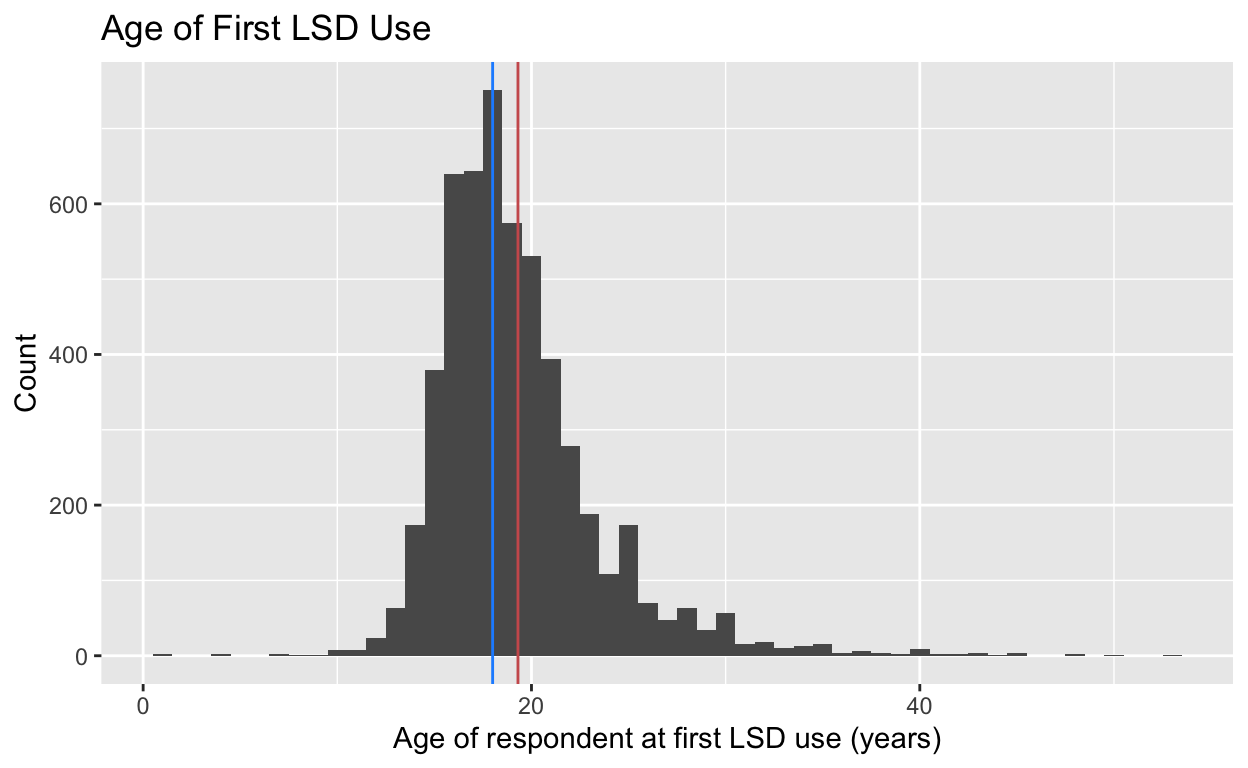
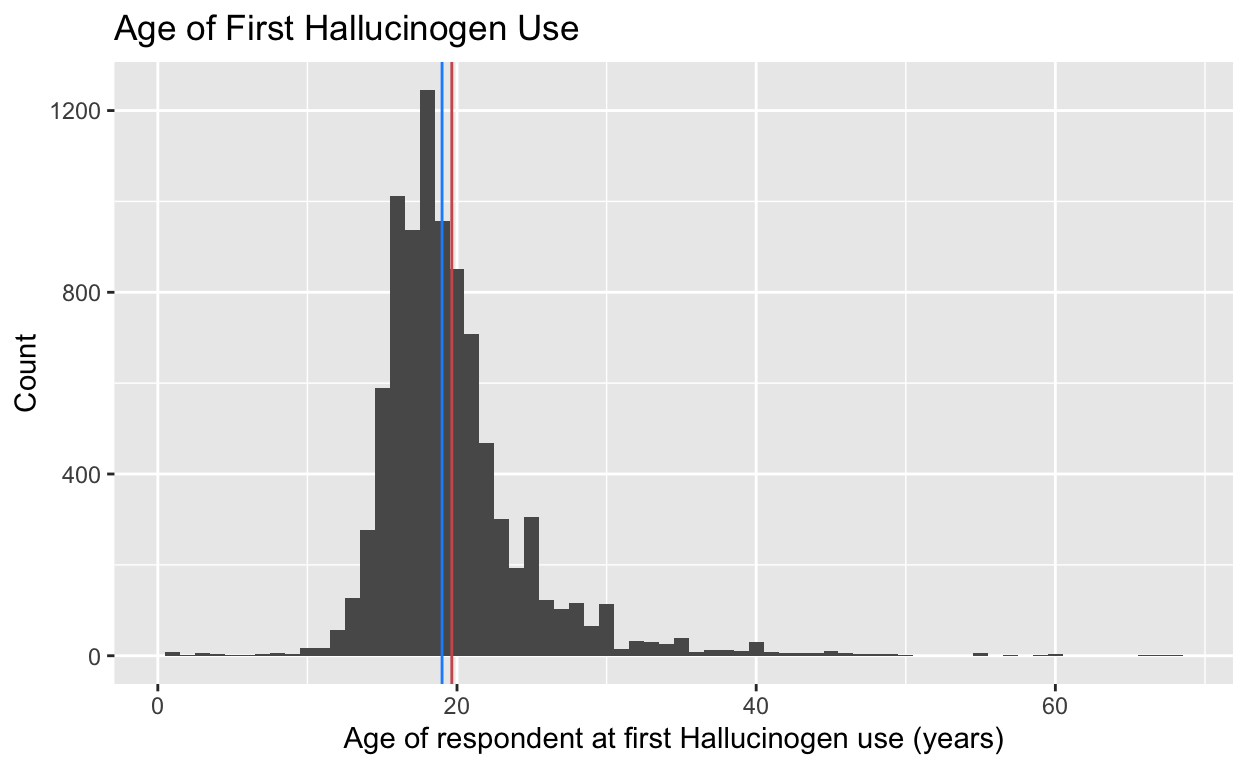
knit

diff --git a/index.html b/index.html
@@ -1571,31 +1571,17 @@ Expected Observations:</p>
 <pre class="sourceCode r"><code class="sourceCode r"><span><span class='co'># PUF2021_100622</span></span>
 <span><span class='va'>lsd_use</span> <span class='op'>&lt;-</span> <span class='va'>PUF2021_100622</span> <span class='op'>|&gt;</span></span>
 <span>  <span class='fu'><a href='https://dplyr.tidyverse.org/reference/mutate.html'>mutate</a></span><span class='op'>(</span></span>
-<span>    income_level <span class='op'>=</span> <span class='fu'><a href='https://dplyr.tidyverse.org/reference/case_when.html'>case_when</a></span><span class='op'>(</span></span>
-<span>      <span class='va'>income</span> <span class='op'>==</span> <span class='fl'>1</span> <span class='op'>~</span> <span class='st'>"Less than $20,000"</span>,</span>
-<span>      <span class='va'>income</span> <span class='op'>==</span> <span class='fl'>2</span> <span class='op'>~</span> <span class='st'>"$20,000 - $49,999"</span>,</span>
-<span>      <span class='va'>income</span> <span class='op'>==</span> <span class='fl'>3</span> <span class='op'>~</span> <span class='st'>"$50,000 - $74,999"</span>,</span>
-<span>      <span class='va'>income</span> <span class='op'>==</span> <span class='fl'>4</span> <span class='op'>~</span> <span class='st'>"$75,000 or More"</span></span>
-<span>    <span class='op'>)</span>,</span>
 <span>    metro_level <span class='op'>=</span> <span class='fu'><a href='https://dplyr.tidyverse.org/reference/case_when.html'>case_when</a></span><span class='op'>(</span></span>
 <span>      <span class='va'>COUTYP4</span> <span class='op'>==</span> <span class='fl'>1</span> <span class='op'>~</span> <span class='st'>"Large Metro"</span>,</span>
 <span>      <span class='va'>COUTYP4</span> <span class='op'>==</span> <span class='fl'>2</span> <span class='op'>~</span> <span class='st'>"Small Metro"</span>,</span>
 <span>      <span class='va'>COUTYP4</span> <span class='op'>==</span> <span class='fl'>3</span> <span class='op'>~</span> <span class='st'>"Non Metro"</span></span>
 <span>    <span class='op'>)</span></span>
 <span>  <span class='op'>)</span> <span class='op'>|&gt;</span></span>
-<span>  <span class='co'># slice_sample(</span></span>
-<span>  <span class='co'>#   n = 10000</span></span>
-<span>  <span class='co'># ) |&gt;</span></span>
 <span>  <span class='fu'><a href='https://dplyr.tidyverse.org/reference/select.html'>select</a></span><span class='op'>(</span></span>
-<span>    <span class='va'>snfamjev</span>,</span>
-<span>    <span class='co'># income level</span></span>
-<span>    <span class='va'>income_level</span>,</span>
 <span>    <span class='co'># metro level</span></span>
 <span>    <span class='va'>metro_level</span>,</span>
 <span>    <span class='co'># respondent age</span></span>
 <span>    <span class='va'>AGE3</span>,</span>
-<span>    <span class='co'># imputation revised gender</span></span>
-<span>    <span class='va'>irsex</span>,</span>
 <span>    <span class='co'># population density</span></span>
 <span>    <span class='va'>PDEN10</span>,</span>
 <span>    <span class='co'># metro/non-metro</span></span>
@@ -1604,21 +1590,21 @@ Expected Observations:</p>
 <span>    <span class='va'>lsdage</span>,</span>
 <span>    <span class='co'># ever used lsd (1)</span></span>
 <span>    <span class='va'>lsdflag</span>,</span>
-<span>    <span class='co'># RC-POVERTY LEVEL (% OF US CENSUS POVERTY THRESHOLD)</span></span>
-<span>    <span class='va'>POVERTY3</span>,</span>
-<span>    <span class='co'># MY RELIGIOUS BELIEFS INFLUENCE MY DECISIONS (1 or 0)</span></span>
-<span>    <span class='va'>snrldcsn</span>,</span>
 <span>    <span class='co'># lsd age last use</span></span>
 <span>    <span class='va'>lsdaglst</span>,</span>
 <span>    <span class='co'># year of last lsd use</span></span>
 <span>    <span class='va'>lsdylu</span>,</span>
-<span>    <span class='co'># total family income</span></span>
-<span>    <span class='va'>income</span></span>
-<span>  <span class='op'>)</span></span>
-<span>  <span class='co'># ) |&gt;</span></span>
-<span>  <span class='co'># filter(</span></span>
-<span>  <span class='co'>#   lsdflag == 1</span></span>
-<span>  <span class='co'># )</span></span></code></pre>
+<span>    <span class='co'># TIME SINCE LAST USED LSD</span></span>
+<span>    <span class='va'>lsdrec</span>,</span>
+<span>    <span class='co'># Ever used psilocybin</span></span>
+<span>    <span class='va'>psilcyever</span>,</span>
+<span>    <span class='co'># ever used psilocybin</span></span>
+<span>    <span class='va'>psilcy</span>,</span>
+<span>    <span class='co'># ever used hallucinogens (DMTAMTFXY, ECSTMOLLY, HALLUCOTH, KETMINESK, LSD, MESC, PCP, PEYOTE, PSILCY, SALVIADIV)</span></span>
+<span>    <span class='va'>hallucevr</span>,</span>
+<span>    <span class='co'># age of first hallucage</span></span>
+<span>    <span class='va'>hallucage</span></span>
+<span>  <span class='op'>)</span></span></code></pre>
 </div>
 </div>
 <div class="layout-chunk" data-layout="l-body">
@@ -1626,61 +1612,92 @@ Expected Observations:</p>
 <pre class="sourceCode r"><code class="sourceCode r"><span><span class='kw'><a href='https://rdrr.io/r/base/library.html'>library</a></span><span class='op'>(</span><span class='va'><a href='https://tidyverse.tidyverse.org'>tidyverse</a></span><span class='op'>)</span></span></code></pre>
 </div>
 </div>
+<h4 id="age-of-first-hallucinogen-use">Age of First Hallucinogen Use</h4>
+This analysis reveals that the median age of first hallucinogen use among respondents is approximately 19 years, representing the midpoint of the distribution. Approximately 25% of respondents start using hallucinogens before or at age 17 (Q1), while another quarter initiate use at or after age 21 (Q3), indicating quartile boundaries. The mean age of initiation, around 19.65 years, closely aligns with the median, implying a relatively symmetrical distribution. The histogram closely resembles a normal distribution with a slight right skew, indicating that most respondents commence using hallucinogens in their late teens or early twenties, with a smaller fraction initiating use at older ages.
 <div class="layout-chunk" data-layout="l-body">
 <div class="sourceCode">
-<pre class="sourceCode r"><code class="sourceCode r"><span><span class='va'>lsd_use_plot</span> <span class='op'>&lt;-</span> <span class='va'>lsd_use</span> <span class='op'>|&gt;</span></span>
-<span>  <span class='fu'><a href='https://dplyr.tidyverse.org/reference/filter.html'>filter</a></span><span class='op'>(</span></span>
-<span>    <span class='va'>lsdage</span> <span class='op'>&lt;</span> <span class='fl'>200</span></span>
-<span>  <span class='op'>)</span> <span class='op'>|&gt;</span></span>
-<span>  <span class='fu'><a href='https://ggplot2.tidyverse.org/reference/ggplot.html'>ggplot</a></span><span class='op'>(</span></span>
-<span>    mapping <span class='op'>=</span> <span class='fu'><a href='https://ggplot2.tidyverse.org/reference/aes.html'>aes</a></span><span class='op'>(</span></span>
-<span>      x <span class='op'>=</span> <span class='va'>lsdage</span></span>
-<span>    <span class='op'>)</span></span>
-<span>  <span class='op'>)</span> <span class='op'>+</span></span>
-<span>  <span class='fu'><a href='https://ggplot2.tidyverse.org/reference/geom_histogram.html'>geom_histogram</a></span><span class='op'>(</span>binwidth <span class='op'>=</span> <span class='fl'>1</span><span class='op'>)</span> <span class='op'>+</span></span>
-<span>  <span class='fu'><a href='https://ggplot2.tidyverse.org/reference/geom_abline.html'>geom_vline</a></span><span class='op'>(</span><span class='fu'><a href='https://ggplot2.tidyverse.org/reference/aes.html'>aes</a></span><span class='op'>(</span>xintercept <span class='op'>=</span> <span class='fu'><a href='https://rdrr.io/r/base/mean.html'>mean</a></span><span class='op'>(</span><span class='va'>lsdage</span><span class='op'>)</span><span class='op'>)</span>, color <span class='op'>=</span> <span class='st'>"indianred"</span><span class='op'>)</span> <span class='op'>+</span></span>
-<span>  <span class='fu'><a href='https://ggplot2.tidyverse.org/reference/geom_abline.html'>geom_vline</a></span><span class='op'>(</span><span class='fu'><a href='https://ggplot2.tidyverse.org/reference/aes.html'>aes</a></span><span class='op'>(</span>xintercept <span class='op'>=</span> <span class='fu'><a href='https://rdrr.io/r/stats/median.html'>median</a></span><span class='op'>(</span><span class='va'>lsdage</span><span class='op'>)</span><span class='op'>)</span>, color <span class='op'>=</span> <span class='st'>"dodgerblue"</span><span class='op'>)</span> <span class='op'>+</span></span>
-<span>  <span class='fu'><a href='https://ggplot2.tidyverse.org/reference/labs.html'>labs</a></span><span class='op'>(</span></span>
-<span>    title <span class='op'>=</span> <span class='st'>"Age of First LSD Use"</span>,</span>
-<span>    x <span class='op'>=</span> <span class='st'>"Age of respondent at first LSD use (years)"</span>,</span>
-<span>    y <span class='op'>=</span> <span class='st'>"Count"</span></span>
+<pre class="sourceCode r"><code class="sourceCode r"><span><span class='va'>filtered_lsd_use</span> <span class='op'>&lt;-</span> <span class='va'>lsd_use</span> <span class='op'>|&gt;</span></span>
+<span>  <span class='fu'><a href='https://dplyr.tidyverse.org/reference/filter.html'>filter</a></span><span class='op'>(</span><span class='va'>hallucage</span> <span class='op'>&lt;</span> <span class='fl'>69</span><span class='op'>)</span></span>
+<span></span>
+<span><span class='va'>summary_stats</span> <span class='op'>&lt;-</span> <span class='va'>filtered_lsd_use</span> <span class='op'>|&gt;</span></span>
+<span>  <span class='fu'><a href='https://dplyr.tidyverse.org/reference/summarise.html'>summarise</a></span><span class='op'>(</span></span>
+<span>    Median <span class='op'>=</span> <span class='fu'><a href='https://rdrr.io/r/stats/median.html'>median</a></span><span class='op'>(</span><span class='va'>hallucage</span><span class='op'>)</span>,</span>
+<span>    Q1 <span class='op'>=</span> <span class='fu'><a href='https://rdrr.io/r/stats/quantile.html'>quantile</a></span><span class='op'>(</span><span class='va'>hallucage</span>, <span class='fl'>0.25</span><span class='op'>)</span>,</span>
+<span>    Q3 <span class='op'>=</span> <span class='fu'><a href='https://rdrr.io/r/stats/quantile.html'>quantile</a></span><span class='op'>(</span><span class='va'>hallucage</span>, <span class='fl'>0.75</span><span class='op'>)</span>,</span>
+<span>    Mean <span class='op'>=</span> <span class='fu'><a href='https://rdrr.io/r/base/mean.html'>mean</a></span><span class='op'>(</span><span class='va'>hallucage</span><span class='op'>)</span>,</span>
+<span>    SD <span class='op'>=</span> <span class='fu'><a href='https://rdrr.io/r/stats/sd.html'>sd</a></span><span class='op'>(</span><span class='va'>hallucage</span><span class='op'>)</span>,</span>
+<span>    Min <span class='op'>=</span> <span class='fu'><a href='https://rdrr.io/r/base/Extremes.html'>min</a></span><span class='op'>(</span><span class='va'>hallucage</span><span class='op'>)</span>,</span>
+<span>    Max <span class='op'>=</span> <span class='fu'><a href='https://rdrr.io/r/base/Extremes.html'>max</a></span><span class='op'>(</span><span class='va'>hallucage</span><span class='op'>)</span></span>
 <span>  <span class='op'>)</span></span>
+<span></span>
+<span><span class='va'>summary_stats</span></span></code></pre>
+</div>
+<pre><code>  Median Q1 Q3     Mean       SD Min Max
+1     19 17 21 19.65161 5.060786   1  68</code></pre>
+<div class="sourceCode">
+<pre class="sourceCode r"><code class="sourceCode r"><span><span class='va'>lsd_use_plot</span> <span class='op'>&lt;-</span> <span class='va'>filtered_lsd_use</span> <span class='op'>|&gt;</span></span>
+<span>  <span class='fu'><a href='https://ggplot2.tidyverse.org/reference/ggplot.html'>ggplot</a></span><span class='op'>(</span>mapping <span class='op'>=</span> <span class='fu'><a href='https://ggplot2.tidyverse.org/reference/aes.html'>aes</a></span><span class='op'>(</span>x <span class='op'>=</span> <span class='va'>hallucage</span><span class='op'>)</span><span class='op'>)</span> <span class='op'>+</span></span>
+<span>  <span class='fu'><a href='https://ggplot2.tidyverse.org/reference/geom_histogram.html'>geom_histogram</a></span><span class='op'>(</span>binwidth <span class='op'>=</span> <span class='fl'>1</span><span class='op'>)</span> <span class='op'>+</span></span>
+<span>  <span class='fu'><a href='https://ggplot2.tidyverse.org/reference/labs.html'>labs</a></span><span class='op'>(</span></span>
+<span>    title <span class='op'>=</span> <span class='st'>"Age of First Hallucinogen Use"</span>,</span>
+<span>    x <span class='op'>=</span> <span class='st'>"Age of respondent at first Hallucinogen use (years)"</span>,</span>
+<span>    y <span class='op'>=</span> <span class='st'>"Count"</span></span>
+<span>  <span class='op'>)</span> <span class='op'>+</span></span>
+<span>  <span class='fu'><a href='https://ggplot2.tidyverse.org/reference/geom_abline.html'>geom_vline</a></span><span class='op'>(</span><span class='fu'><a href='https://ggplot2.tidyverse.org/reference/aes.html'>aes</a></span><span class='op'>(</span>xintercept <span class='op'>=</span> <span class='fu'><a href='https://rdrr.io/r/base/mean.html'>mean</a></span><span class='op'>(</span><span class='va'>hallucage</span><span class='op'>)</span><span class='op'>)</span>, color <span class='op'>=</span> <span class='st'>"indianred"</span><span class='op'>)</span> <span class='op'>+</span></span>
+<span>  <span class='fu'><a href='https://ggplot2.tidyverse.org/reference/geom_abline.html'>geom_vline</a></span><span class='op'>(</span><span class='fu'><a href='https://ggplot2.tidyverse.org/reference/aes.html'>aes</a></span><span class='op'>(</span>xintercept <span class='op'>=</span> <span class='fu'><a href='https://rdrr.io/r/stats/median.html'>median</a></span><span class='op'>(</span><span class='va'>hallucage</span><span class='op'>)</span><span class='op'>)</span>, color <span class='op'>=</span> <span class='st'>"dodgerblue"</span><span class='op'>)</span></span>
 <span></span>
 <span><span class='va'>lsd_use_plot</span></span></code></pre>
 </div>
 <p><img src="index_files/figure-html5/unnamed-chunk-4-1.png" width="624" /></p>
 </div>
+<h4 id="age-of-first-hallucinogen-use-by-metrolevel">Age of First Hallucinogen Use by Metrolevel</h4>
+The boxplot analysis reveals variations in the age of first hallucinogen use across different metro level areas. In Large Metro areas, the median age of initiation is around 19 years, while in Non Metro and Small Metro areas, it’s about 18 years. The first quartile age (25th percentile) indicates that a quarter of individuals in Non Metro areas start using hallucinogens at a younger age, at approximately 16 years, compared to the other groups. The third quartile age (75th percentile) shows that the majority in all three areas initiate use by their early twenties, with Large Metro areas slightly later at around 22 years. These findings highlight regional differences in the timing of first hallucinogen use, with individuals in Large Metro areas tending to initiate use slightly later on average.
 <div class="layout-chunk" data-layout="l-body">
 <div class="sourceCode">
-<pre class="sourceCode r"><code class="sourceCode r"><span><span class='va'>fit_1</span> <span class='op'>&lt;-</span> <span class='fu'><a href='https://rdrr.io/r/stats/lm.html'>lm</a></span><span class='op'>(</span><span class='va'>snfamjev</span> <span class='op'>~</span> <span class='va'>lsdflag</span> , data <span class='op'>=</span> <span class='va'>lsd_use</span><span class='op'>)</span></span>
+<pre class="sourceCode r"><code class="sourceCode r"><span><span class='va'>lsd_use_box_plot</span> <span class='op'>&lt;-</span> <span class='va'>filtered_lsd_use</span> <span class='op'>|&gt;</span></span>
+<span>  <span class='fu'><a href='https://dplyr.tidyverse.org/reference/filter.html'>filter</a></span><span class='op'>(</span></span>
+<span>    <span class='va'>hallucage</span> <span class='op'>&lt;</span> <span class='fl'>69</span></span>
+<span>  <span class='op'>)</span> <span class='op'>|&gt;</span></span>
+<span>  <span class='fu'><a href='https://ggplot2.tidyverse.org/reference/ggplot.html'>ggplot</a></span><span class='op'>(</span></span>
+<span>    mapping <span class='op'>=</span> <span class='fu'><a href='https://ggplot2.tidyverse.org/reference/aes.html'>aes</a></span><span class='op'>(</span></span>
+<span>      x <span class='op'>=</span> <span class='va'>hallucage</span>,</span>
+<span>      fill <span class='op'>=</span> <span class='va'>metro_level</span></span>
+<span>    <span class='op'>)</span></span>
+<span>  <span class='op'>)</span> <span class='op'>+</span></span>
+<span><span class='fu'><a href='https://ggplot2.tidyverse.org/reference/geom_boxplot.html'>geom_boxplot</a></span><span class='op'>(</span><span class='op'>)</span> <span class='op'>+</span></span>
+<span>  <span class='fu'><a href='https://ggplot2.tidyverse.org/reference/labs.html'>labs</a></span><span class='op'>(</span></span>
+<span>    title <span class='op'>=</span> <span class='st'>"Age of First Hallucinogen Use by Metro Level"</span>,</span>
+<span>    x <span class='op'>=</span> <span class='st'>"Metro Level"</span>,</span>
+<span>    y <span class='op'>=</span> <span class='st'>"Age at first Hallucinogen use (years)"</span></span>
+<span>  <span class='op'>)</span></span>
 <span></span>
-<span><span class='va'>fit_1</span> <span class='op'>|&gt;</span></span>
-<span>  <span class='fu'>broom</span><span class='fu'>::</span><span class='fu'><a href='https://generics.r-lib.org/reference/tidy.html'>tidy</a></span><span class='op'>(</span><span class='op'>)</span> <span class='op'>|&gt;</span></span>
-<span>  <span class='fu'><a href='https://dplyr.tidyverse.org/reference/select.html'>select</a></span><span class='op'>(</span><span class='va'>term</span>, <span class='va'>estimate</span><span class='op'>)</span> <span class='op'>|&gt;</span>  </span>
-<span>  <span class='fu'>knitr</span><span class='fu'>::</span><span class='fu'><a href='https://rdrr.io/pkg/knitr/man/kable.html'>kable</a></span><span class='op'>(</span>digits <span class='op'>=</span> <span class='fl'>2</span><span class='op'>)</span></span></code></pre>
+<span><span class='va'>lsd_use_box_plot</span></span></code></pre>
 </div>
-<table>
-<thead>
-<tr class="header">
-<th style="text-align: left;">term</th>
-<th style="text-align: right;">estimate</th>
-</tr>
-</thead>
-<tbody>
-<tr class="odd">
-<td style="text-align: left;">(Intercept)</td>
-<td style="text-align: right;">23.79</td>
-</tr>
-<tr class="even">
-<td style="text-align: left;">lsdflag</td>
-<td style="text-align: right;">-15.79</td>
-</tr>
-</tbody>
-</table>
+<img src="index_files/figure-html5/unnamed-chunk-5-1.png" width="624" />
+<div class="sourceCode">
+<pre class="sourceCode r"><code class="sourceCode r"><span><span class='va'>summary_stats</span> <span class='op'>&lt;-</span> <span class='va'>lsd_use</span> <span class='op'>|&gt;</span></span>
+<span>  <span class='fu'><a href='https://dplyr.tidyverse.org/reference/filter.html'>filter</a></span><span class='op'>(</span><span class='va'>hallucage</span> <span class='op'>&lt;</span> <span class='fl'>69</span><span class='op'>)</span> <span class='op'>|&gt;</span></span>
+<span>  <span class='fu'><a href='https://dplyr.tidyverse.org/reference/group_by.html'>group_by</a></span><span class='op'>(</span><span class='va'>metro_level</span><span class='op'>)</span> <span class='op'>|&gt;</span></span>
+<span>  <span class='fu'><a href='https://dplyr.tidyverse.org/reference/summarise.html'>summarize</a></span><span class='op'>(</span></span>
+<span>    Median <span class='op'>=</span> <span class='fu'><a href='https://rdrr.io/r/stats/median.html'>median</a></span><span class='op'>(</span><span class='va'>hallucage</span><span class='op'>)</span>,</span>
+<span>    Q1 <span class='op'>=</span> <span class='fu'><a href='https://rdrr.io/r/stats/quantile.html'>quantile</a></span><span class='op'>(</span><span class='va'>hallucage</span>, <span class='fl'>0.25</span><span class='op'>)</span>,</span>
+<span>    Q3 <span class='op'>=</span> <span class='fu'><a href='https://rdrr.io/r/stats/quantile.html'>quantile</a></span><span class='op'>(</span><span class='va'>hallucage</span>, <span class='fl'>0.75</span><span class='op'>)</span></span>
+<span>  <span class='op'>)</span></span>
+<span></span>
+<span><span class='va'>summary_stats</span></span></code></pre>
 </div>
+<pre><code># A tibble: 3 × 4
+  metro_level Median    Q1    Q3
+  &lt;chr&gt;        &lt;dbl&gt; &lt;dbl&gt; &lt;dbl&gt;
+1 Large Metro     19    17    22
+2 Non Metro       18    16    21
+3 Small Metro     18    17    21</code></pre>
+</div>
+<h4 id="hallucinogen-lifetime-use-and-metro-level">Hallucinogen lifetime use and metro level</h4>
+Whether a respondent has ever taken psychedelics (hallucevr) does not appear to have a significant impact on the type of county (COUTYP4) in which they reside. The coefficient for hallucevr is almost zero, indicating that there is virtually no association between these two variables in the model.
 <div class="layout-chunk" data-layout="l-body">
 <div class="sourceCode">
-<pre class="sourceCode r"><code class="sourceCode r"><span><span class='va'>fit_2</span> <span class='op'>&lt;-</span> <span class='fu'><a href='https://rdrr.io/r/stats/lm.html'>lm</a></span><span class='op'>(</span><span class='va'>snrldcsn</span> <span class='op'>~</span> <span class='va'>lsdflag</span>, data <span class='op'>=</span> <span class='va'>lsd_use</span><span class='op'>)</span></span>
+<pre class="sourceCode r"><code class="sourceCode r"><span><span class='va'>fit_2</span> <span class='op'>&lt;-</span> <span class='fu'><a href='https://rdrr.io/r/stats/lm.html'>lm</a></span><span class='op'>(</span><span class='va'>COUTYP4</span> <span class='op'>~</span> <span class='va'>hallucevr</span>, data <span class='op'>=</span> <span class='va'>lsd_use</span><span class='op'>)</span></span>
 <span></span>
 <span><span class='va'>fit_2</span> <span class='op'>|&gt;</span></span>
 <span>  <span class='fu'>broom</span><span class='fu'>::</span><span class='fu'><a href='https://generics.r-lib.org/reference/tidy.html'>tidy</a></span><span class='op'>(</span><span class='op'>)</span> <span class='op'>|&gt;</span></span>
@@ -1697,100 +1714,35 @@ Expected Observations:</p>
 <tbody>
 <tr class="odd">
 <td style="text-align: left;">(Intercept)</td>
-<td style="text-align: right;">24.89</td>
+<td style="text-align: right;">1.73</td>
 </tr>
 <tr class="even">
-<td style="text-align: left;">lsdflag</td>
-<td style="text-align: right;">-16.06</td>
+<td style="text-align: left;">hallucevr</td>
+<td style="text-align: right;">0.00</td>
 </tr>
 </tbody>
 </table>
 </div>
 <div class="layout-chunk" data-layout="l-body">
 <div class="sourceCode">
-<pre class="sourceCode r"><code class="sourceCode r"><span><span class='va'>metro_lsd_plot</span> <span class='op'>&lt;-</span> <span class='va'>lsd_use</span> <span class='op'>|&gt;</span></span>
+<pre class="sourceCode r"><code class="sourceCode r"><span><span class='va'>metro_hall_plot</span> <span class='op'>&lt;-</span> <span class='va'>filtered_lsd_use</span> <span class='op'>|&gt;</span></span>
 <span>  <span class='fu'><a href='https://dplyr.tidyverse.org/reference/group_by.html'>group_by</a></span><span class='op'>(</span><span class='va'>metro_level</span><span class='op'>)</span> <span class='op'>|&gt;</span></span>
 <span>  <span class='fu'><a href='https://dplyr.tidyverse.org/reference/summarise.html'>summarize</a></span><span class='op'>(</span></span>
-<span>    avg_lsdflag <span class='op'>=</span> <span class='fu'><a href='https://rdrr.io/r/base/mean.html'>mean</a></span><span class='op'>(</span><span class='va'>lsdflag</span><span class='op'>)</span></span>
+<span>    avg_hallucage <span class='op'>=</span> <span class='fu'><a href='https://rdrr.io/r/base/mean.html'>mean</a></span><span class='op'>(</span><span class='va'>hallucage</span><span class='op'>)</span></span>
 <span>  <span class='op'>)</span> <span class='op'>|&gt;</span></span>
-<span>  <span class='fu'><a href='https://ggplot2.tidyverse.org/reference/ggplot.html'>ggplot</a></span><span class='op'>(</span>mapping <span class='op'>=</span> <span class='fu'><a href='https://ggplot2.tidyverse.org/reference/aes.html'>aes</a></span><span class='op'>(</span>x <span class='op'>=</span> <span class='fu'><a href='https://forcats.tidyverse.org/reference/fct_reorder.html'>fct_reorder</a></span><span class='op'>(</span><span class='va'>metro_level</span>, <span class='va'>avg_lsdflag</span><span class='op'>)</span>, y <span class='op'>=</span> <span class='va'>avg_lsdflag</span>, fill <span class='op'>=</span> <span class='va'>metro_level</span><span class='op'>)</span><span class='op'>)</span> <span class='op'>+</span></span>
+<span>  <span class='fu'><a href='https://ggplot2.tidyverse.org/reference/ggplot.html'>ggplot</a></span><span class='op'>(</span>mapping <span class='op'>=</span> <span class='fu'><a href='https://ggplot2.tidyverse.org/reference/aes.html'>aes</a></span><span class='op'>(</span>x <span class='op'>=</span> <span class='fu'><a href='https://forcats.tidyverse.org/reference/fct_reorder.html'>fct_reorder</a></span><span class='op'>(</span><span class='va'>metro_level</span>, <span class='va'>avg_hallucage</span><span class='op'>)</span>, y <span class='op'>=</span> <span class='va'>avg_hallucage</span>, fill <span class='op'>=</span> <span class='va'>metro_level</span><span class='op'>)</span><span class='op'>)</span> <span class='op'>+</span></span>
 <span>  <span class='fu'><a href='https://ggplot2.tidyverse.org/reference/geom_bar.html'>geom_col</a></span><span class='op'>(</span><span class='op'>)</span> <span class='op'>+</span></span>
 <span>  <span class='fu'><a href='https://ggplot2.tidyverse.org/reference/labs.html'>labs</a></span><span class='op'>(</span></span>
-<span>    title <span class='op'>=</span> <span class='st'>"Metro level and ever used LSD"</span>,</span>
-<span>    x <span class='op'>=</span> <span class='st'>"Metro level family income"</span>,</span>
-<span>    y <span class='op'>=</span> <span class='st'>"Avergae proportion of respondents who have ever used LSD (%)"</span></span>
+<span>    title <span class='op'>=</span> <span class='st'>"County metro/nonmetro status level and average age of first Hallucinogen use"</span>,</span>
+<span>    x <span class='op'>=</span> <span class='st'>"COUNTY METRO/NONMETRO STATUS (2013 3-LEVEL)"</span>,</span>
+<span>    y <span class='op'>=</span> <span class='st'>"Average Age of respondent at first Hallucinogen use (years)"</span></span>
 <span>  <span class='op'>)</span></span>
 <span></span>
-<span><span class='va'>metro_lsd_plot</span></span></code></pre>
+<span><span class='va'>metro_hall_plot</span></span></code></pre>
 </div>
 <p><img src="index_files/figure-html5/unnamed-chunk-7-1.png" width="624" /></p>
 </div>
-<div class="layout-chunk" data-layout="l-body">
-<div class="sourceCode">
-<pre class="sourceCode r"><code class="sourceCode r"><span><span class='va'>income_lsd_plot</span> <span class='op'>&lt;-</span> <span class='va'>lsd_use</span> <span class='op'>|&gt;</span></span>
-<span>  <span class='fu'><a href='https://dplyr.tidyverse.org/reference/group_by.html'>group_by</a></span><span class='op'>(</span><span class='va'>income_level</span><span class='op'>)</span> <span class='op'>|&gt;</span></span>
-<span>  <span class='fu'><a href='https://dplyr.tidyverse.org/reference/summarise.html'>summarize</a></span><span class='op'>(</span></span>
-<span>    avg_lsdage <span class='op'>=</span> <span class='fu'><a href='https://rdrr.io/r/base/mean.html'>mean</a></span><span class='op'>(</span><span class='va'>lsdage</span><span class='op'>)</span>,</span>
-<span>    avg_lsdflag <span class='op'>=</span> <span class='fu'><a href='https://rdrr.io/r/base/mean.html'>mean</a></span><span class='op'>(</span><span class='va'>lsdflag</span><span class='op'>)</span></span>
-<span>  <span class='op'>)</span> <span class='op'>|&gt;</span></span>
-<span>  <span class='fu'><a href='https://ggplot2.tidyverse.org/reference/ggplot.html'>ggplot</a></span><span class='op'>(</span>mapping <span class='op'>=</span> <span class='fu'><a href='https://ggplot2.tidyverse.org/reference/aes.html'>aes</a></span><span class='op'>(</span>x <span class='op'>=</span> <span class='fu'><a href='https://forcats.tidyverse.org/reference/fct_reorder.html'>fct_reorder</a></span><span class='op'>(</span><span class='va'>income_level</span>, <span class='va'>avg_lsdflag</span><span class='op'>)</span>, y <span class='op'>=</span> <span class='va'>avg_lsdflag</span>, fill <span class='op'>=</span> <span class='va'>income_level</span><span class='op'>)</span><span class='op'>)</span> <span class='op'>+</span></span>
-<span>  <span class='fu'><a href='https://ggplot2.tidyverse.org/reference/geom_bar.html'>geom_col</a></span><span class='op'>(</span><span class='op'>)</span> <span class='op'>+</span></span>
-<span>  <span class='fu'><a href='https://ggplot2.tidyverse.org/reference/labs.html'>labs</a></span><span class='op'>(</span></span>
-<span>    title <span class='op'>=</span> <span class='st'>"Income level and ever used LSD"</span>,</span>
-<span>    x <span class='op'>=</span> <span class='st'>"Total family income"</span>,</span>
-<span>    y <span class='op'>=</span> <span class='st'>"Avergae proportion of respondents who have ever used LSD (%)"</span></span>
-<span>  <span class='op'>)</span></span>
-<span></span>
-<span><span class='va'>income_lsd_plot</span></span></code></pre>
-</div>
-<p><img src="index_files/figure-html5/unnamed-chunk-8-1.png" width="624" /></p>
-</div>
-<div class="layout-chunk" data-layout="l-body">
-<div class="sourceCode">
-<pre class="sourceCode r"><code class="sourceCode r"><span><span class='co'># based on poverty level, avg lsd use flag?</span></span>
-<span><span class='va'>income_lsd_age_plot</span> <span class='op'>&lt;-</span> <span class='va'>lsd_use</span> <span class='op'>|&gt;</span></span>
-<span>  <span class='fu'><a href='https://dplyr.tidyverse.org/reference/filter.html'>filter</a></span><span class='op'>(</span></span>
-<span>    <span class='va'>lsdage</span> <span class='op'>&lt;</span> <span class='fl'>200</span></span>
-<span>  <span class='op'>)</span> <span class='op'>|&gt;</span></span>
-<span>  <span class='fu'><a href='https://dplyr.tidyverse.org/reference/group_by.html'>group_by</a></span><span class='op'>(</span><span class='va'>income_level</span><span class='op'>)</span> <span class='op'>|&gt;</span></span>
-<span>  <span class='fu'><a href='https://dplyr.tidyverse.org/reference/summarise.html'>summarize</a></span><span class='op'>(</span></span>
-<span>    avg_lsdage <span class='op'>=</span> <span class='fu'><a href='https://rdrr.io/r/base/mean.html'>mean</a></span><span class='op'>(</span><span class='va'>lsdage</span><span class='op'>)</span></span>
-<span>  <span class='op'>)</span> <span class='op'>|&gt;</span></span>
-<span>  <span class='fu'><a href='https://ggplot2.tidyverse.org/reference/ggplot.html'>ggplot</a></span><span class='op'>(</span>mapping <span class='op'>=</span> <span class='fu'><a href='https://ggplot2.tidyverse.org/reference/aes.html'>aes</a></span><span class='op'>(</span>x <span class='op'>=</span> <span class='fu'><a href='https://forcats.tidyverse.org/reference/fct_reorder.html'>fct_reorder</a></span><span class='op'>(</span><span class='va'>income_level</span>, <span class='va'>avg_lsdage</span><span class='op'>)</span>, y <span class='op'>=</span> <span class='va'>avg_lsdage</span>, fill <span class='op'>=</span> <span class='va'>income_level</span><span class='op'>)</span><span class='op'>)</span> <span class='op'>+</span></span>
-<span>  <span class='fu'><a href='https://ggplot2.tidyverse.org/reference/geom_bar.html'>geom_col</a></span><span class='op'>(</span><span class='op'>)</span> <span class='op'>+</span></span>
-<span>  <span class='fu'><a href='https://ggplot2.tidyverse.org/reference/labs.html'>labs</a></span><span class='op'>(</span></span>
-<span>    title <span class='op'>=</span> <span class='st'>"Income level and average age of first LSD use"</span>,</span>
-<span>    x <span class='op'>=</span> <span class='st'>"Total family income"</span>,</span>
-<span>    y <span class='op'>=</span> <span class='st'>"Avergae age of respondent when used LSD first (age)"</span></span>
-<span>  <span class='op'>)</span></span>
-<span></span>
-<span><span class='va'>income_lsd_age_plot</span></span></code></pre>
-</div>
-<p><img src="index_files/figure-html5/unnamed-chunk-9-1.png" width="624" /></p>
-</div>
-<div class="layout-chunk" data-layout="l-body">
-<div class="sourceCode">
-<pre class="sourceCode r"><code class="sourceCode r"><span><span class='va'>metro_lsd_plot</span> <span class='op'>&lt;-</span> <span class='va'>lsd_use</span> <span class='op'>|&gt;</span></span>
-<span>  <span class='fu'><a href='https://dplyr.tidyverse.org/reference/filter.html'>filter</a></span><span class='op'>(</span></span>
-<span>    <span class='va'>lsdage</span> <span class='op'>&lt;</span> <span class='fl'>200</span></span>
-<span>  <span class='op'>)</span> <span class='op'>|&gt;</span></span>
-<span>  <span class='fu'><a href='https://dplyr.tidyverse.org/reference/group_by.html'>group_by</a></span><span class='op'>(</span><span class='va'>metro_level</span><span class='op'>)</span> <span class='op'>|&gt;</span></span>
-<span>  <span class='fu'><a href='https://dplyr.tidyverse.org/reference/summarise.html'>summarize</a></span><span class='op'>(</span></span>
-<span>    avg_lsdage <span class='op'>=</span> <span class='fu'><a href='https://rdrr.io/r/base/mean.html'>mean</a></span><span class='op'>(</span><span class='va'>lsdage</span><span class='op'>)</span></span>
-<span>  <span class='op'>)</span> <span class='op'>|&gt;</span></span>
-<span>  <span class='fu'><a href='https://ggplot2.tidyverse.org/reference/ggplot.html'>ggplot</a></span><span class='op'>(</span>mapping <span class='op'>=</span> <span class='fu'><a href='https://ggplot2.tidyverse.org/reference/aes.html'>aes</a></span><span class='op'>(</span>x <span class='op'>=</span> <span class='fu'><a href='https://forcats.tidyverse.org/reference/fct_reorder.html'>fct_reorder</a></span><span class='op'>(</span><span class='va'>metro_level</span>, <span class='va'>avg_lsdage</span><span class='op'>)</span>, y <span class='op'>=</span> <span class='va'>avg_lsdage</span>, fill <span class='op'>=</span> <span class='va'>metro_level</span><span class='op'>)</span><span class='op'>)</span> <span class='op'>+</span></span>
-<span>  <span class='fu'><a href='https://ggplot2.tidyverse.org/reference/geom_bar.html'>geom_col</a></span><span class='op'>(</span><span class='op'>)</span> <span class='op'>+</span></span>
-<span>  <span class='fu'><a href='https://ggplot2.tidyverse.org/reference/labs.html'>labs</a></span><span class='op'>(</span></span>
-<span>    title <span class='op'>=</span> <span class='st'>"County metro/nonmetro status level and average age of first LSD use"</span>,</span>
-<span>    x <span class='op'>=</span> <span class='st'>"COUNTY METRO/NONMETRO STATUS (2013 3-LEVEL)"</span>,</span>
-<span>    y <span class='op'>=</span> <span class='st'>"Average Age of respondent at first LSD use (years)"</span></span>
-<span>  <span class='op'>)</span></span>
-<span></span>
-<span><span class='va'>metro_lsd_plot</span></span></code></pre>
-</div>
-<p><img src="index_files/figure-html5/unnamed-chunk-10-1.png" width="624" /></p>
-</div>
-<div class="sourceCode" id="cb2"><pre class="sourceCode r distill-force-highlighting-css"><code class="sourceCode r"></code></pre></div>
+<div class="sourceCode" id="cb4"><pre class="sourceCode r distill-force-highlighting-css"><code class="sourceCode r"></code></pre></div>
 <!--radix_placeholder_article_footer-->
 <!--/radix_placeholder_article_footer-->
 </div>
